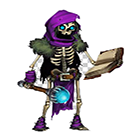
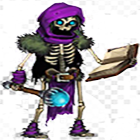
Added many texture

diff --git a/PPS/src/domainClasses/CardDeck.java b/PPS/src/domainClasses/CardDeck.java
@@ -31,32 +31,33 @@ public class CardDeck {
 		
 		minionList = new ArrayList<AbstractCardData>();
 		//add card data here
-		minionList.add(new MinionData("resources/cardIcons/skeletonResized.png", "Skeleton", 6));	
+		minionList.add(new MinionData("resources/cardIcons/goblin1.png", "Goblin", 3));	
+		minionList.add(new MinionData("resources/cardIcons/skeletonResized.png", "Skeleton", 4));
+		minionList.add(new MinionData("resources/cardIcons/trollFico1.png", "Troll", 5));	
 		
-		
-	
 		potionList = new ArrayList<AbstractCardData>();
-
 		//add card data here
-		potionList.add(new PotionData("resources/cardIcons/mediumPotionResized.png", "MediumPotion", 12));	
-		
+		potionList.add(new PotionData("resources/cardIcons/potion2.png", "SmallPotion", 2));
+		potionList.add(new PotionData("resources/cardIcons/mediumPotionResized.png", "MediumPotion", 3));	
+		potionList.add(new PotionData("resources/cardIcons/rainbowPotion.png", "RainbowPotion", 5));	
 		
 		repairPotionList = new ArrayList<AbstractCardData>();
 		//add card data here
-		repairPotionList.add(new RepairPotionData("resources/cardIcons/repairPotion1.png", "BlueMediumRP", 6));
+		repairPotionList.add(new RepairPotionData("resources/cardIcons/repairPotion1.png", "BlueMediumRP", 2));
+		repairPotionList.add(new RepairPotionData("resources/cardIcons/yellowPotion.png", "BlueMediumRP", 3));
 		
-
 		
 		trapList = new ArrayList<AbstractCardData>();
 		//add card data here
-		trapList.add(new TrapData("resources/cardIcons/mimicResized.png", "Mimic", 6));	
-		
+		trapList.add(new TrapData("resources/cardIcons/mimic.png", "Mimic", 6));	
+		trapList.add(new TrapData("resources/cardIcons/yellowPotion.png", "Mimic", 2));	
 	
 		
 		weaponList = new ArrayList<AbstractCardData>();
 		//add card data here
-		weaponList.add(new WeaponData("resources/cardIcons/swordResized.png", "StandardSword", 4));	
-		weaponList.add(new WeaponData("resources/cardIcons/laserGunResized.png", "LaserGun", 10));	
+		weaponList.add(new WeaponData("resources/cardIcons/swordResized.png", "StandardSword", 2));	
+		weaponList.add(new WeaponData("resources/cardIcons/laserGunResized.png", "LaserGun", 6));	
+		weaponList.add(new WeaponData("resources/cardIcons/goldenShield.png", "GoldenShield", 3));	
 	
 		
 		goodCategoriesMap = new HashMap<String, List<? super AbstractCardData>>();
